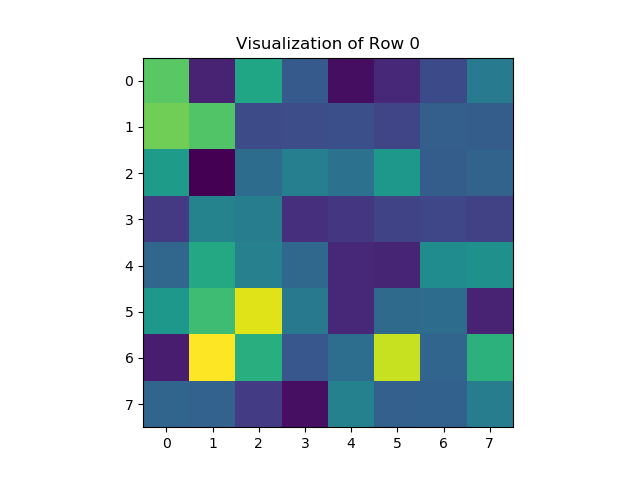
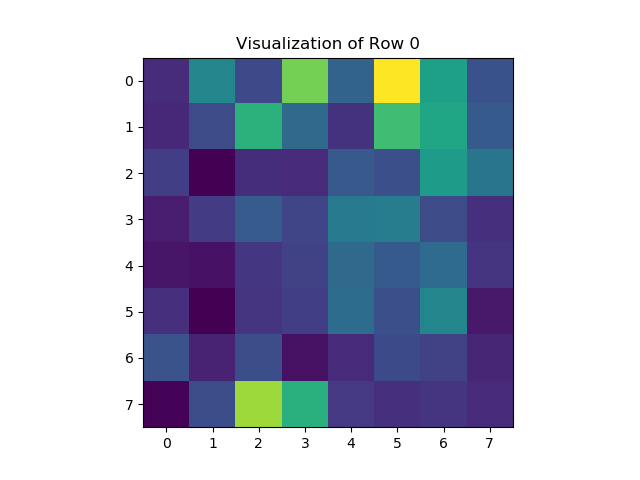
Better pictures of bonus

diff --git a/lab3/a3.py b/lab3/a3.py
@@ -400,7 +400,7 @@ tinymnist = np.load ("tinymnist.npz")
 #	testData, testTarget = data ["x_test"], data ["y_test"]
 
 # def factorAnalysis (K, data, LEARNINGRATE, epochs):
-loss_array, valid_loss, W = factorAnalysis(K, tinymnist, LEARNINGRATE, epochs)
+loss_array, valid_loss, W = factorAnalysis(K, tinymnist, LEARNINGRATE, 800)
 # print W # W is 4 x 64
 W = np.reshape(W, (K, 8, 8))
 # print W
